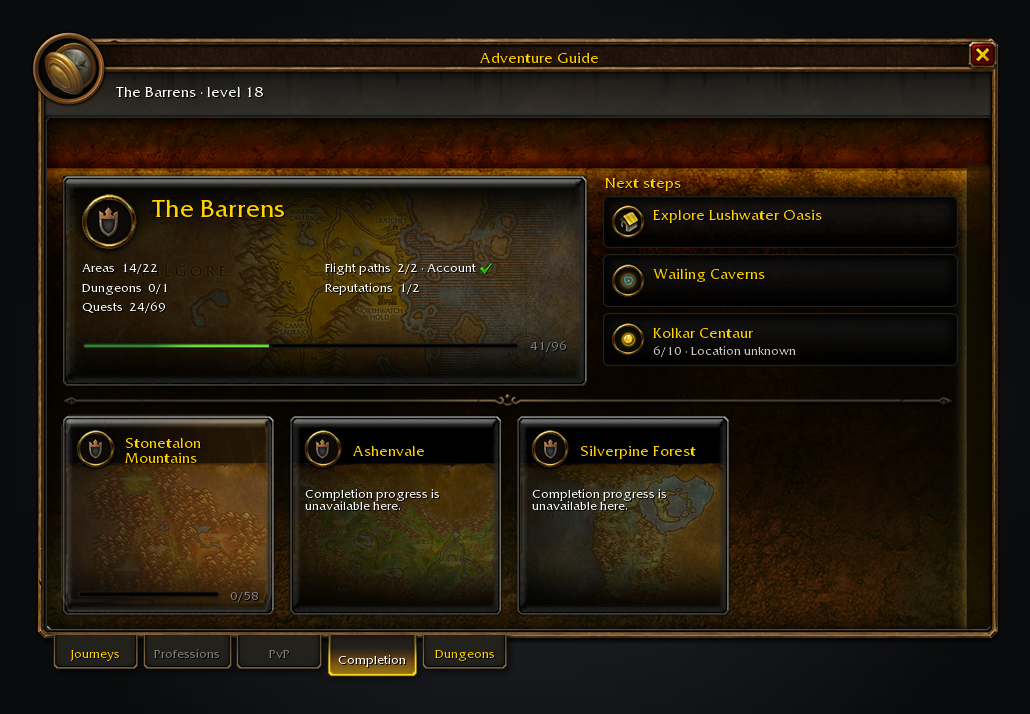
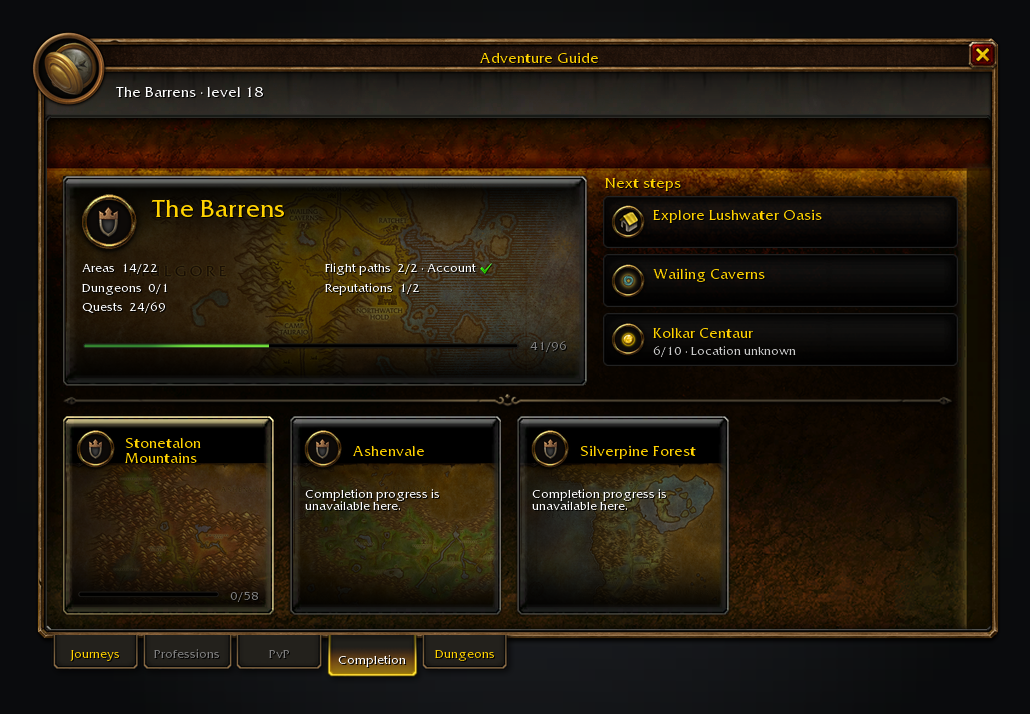
Use normal guide window placement and match hover to card borders (#61)
Adventure Guide currently floats independently by default, and
rectangular cards use a mismatched panel-shaped hover overlay. Use
normal WoW panel placement by default, add a Float window setting, and
highlight each card's own nine-slice rim.

The guide owns its panel attributes without writing Blizzard's shared
UIPanelWindows registry. Mode changes and opening defer in combat.
Addon-owned events let Tweaks create the hidden guide and apply Edit
Mode layout overrides without hooking native methods. Companion
integration: cjber/tweaks-forever#93.

Validation: all existing Lua specs passed except the expected
settings-row assertion, which was updated and rerun successfully; 223
window checks and 171 guide UI checks pass. LuaLS, taint/load-graph
checks, lint, formatting, sift and planner benchmark pass. Two
screenshot renders are identical; fitted border visually inspected.
In-game window placement, interaction with other panels, and Edit Mode
remain to be confirmed because Cua is unavailable.

Changed region(s): [[0.0621, 0.5546, 0.2796, 0.8627], [0.0621, 0.8319, 0.0932, 0.8627]]

diff --git a/docs/design.md b/docs/design.md
@@ -116,3 +116,7 @@ follow the shared family voice.
   movement changes focus without shuffling the route. Keep work bounded per frame.
 - **4.3 Committed order.** Preserve the chosen sequence and visit identities across rebuilds.
   Session limits use rough estimates and retain complete planned work and returns.
+
+The guide uses `ShowUIPanel` / `HideUIPanel` by default, with `UIPanelLayout-*` attributes on its own frame only. It never registers in Blizzard’s shared `UIPanelWindows` table. `floatWindow` opts into independent placement and dragging; saved floating positions remain available when switching back. Opening and mode changes defer during combat.
+
+Tweaks can request hidden, lazy creation through `AdventureGuideForever.EnsureWindow`. The guide emits `AdventureGuideForever.WindowCreated` after building and `AdventureGuideForever.WindowLayoutChanged` after switching modes. Tweaks owns layout overrides and scale; the guide retains normal panel occupancy or floating behavior.

diff --git a/CHANGELOG.md b/CHANGELOG.md
@@ -11,6 +11,11 @@ verbatim rather than rewritten as the addon moves.
 
 ## [Unreleased]
 
+## [0.5.0] - 2026-09-28
+
+- **Open the guide as a normal window.** Adventure Guide now uses the game’s panel placement by default. Enable Float window in Settings to move it independently. Tweaks Forever’s Windows tab in Edit Mode can move, scale and reset either mode; switching modes waits until combat ends.
+- **Match hover to the card.** Clickable cards highlight their own border, following its shape and size instead of drawing an oversized panel-shaped overlay.
+
 ## [0.4.3] - 2026-09-28
 
 - **Avoid the session picker crash.** The No limit control now opens an addon-owned list of session lengths, bypassing the native menu creation path that crashes Forever build 70009. Choose a length, click outside, or press Escape to close it.
